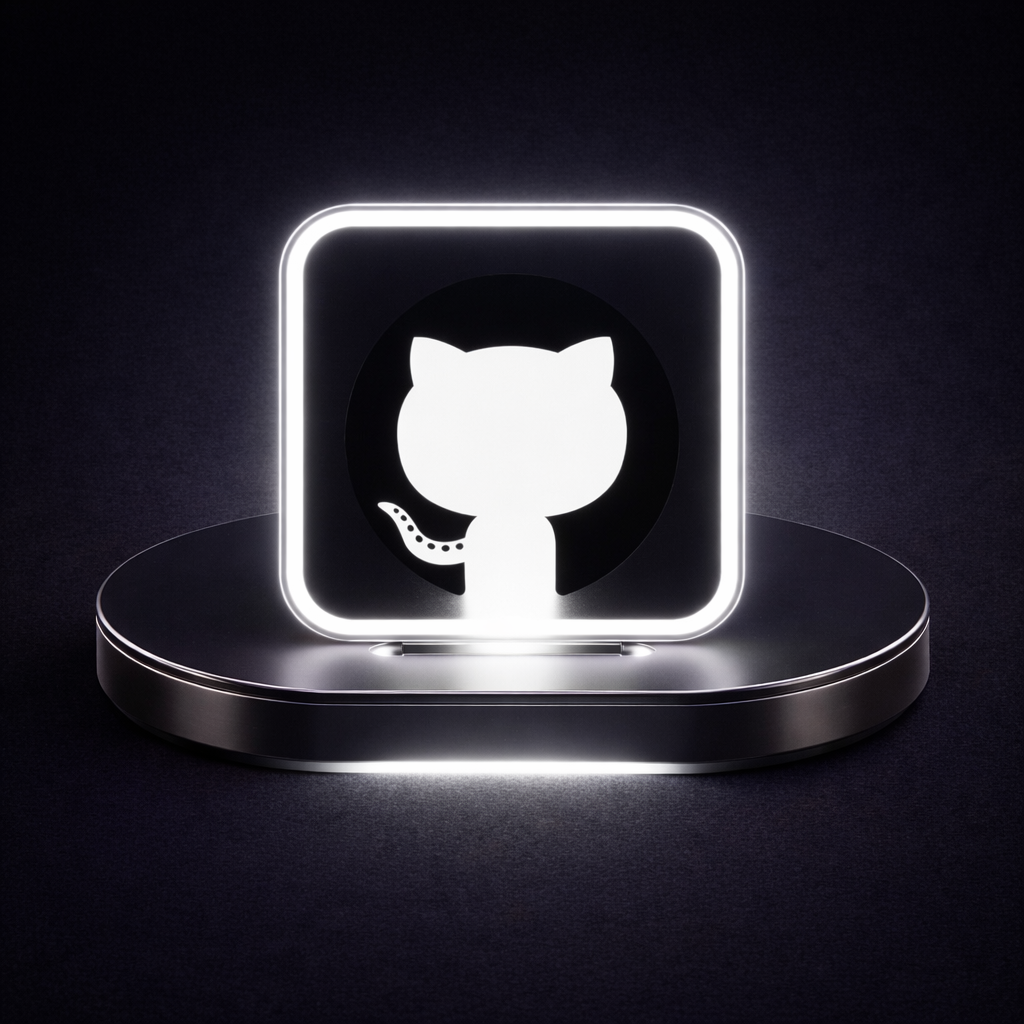
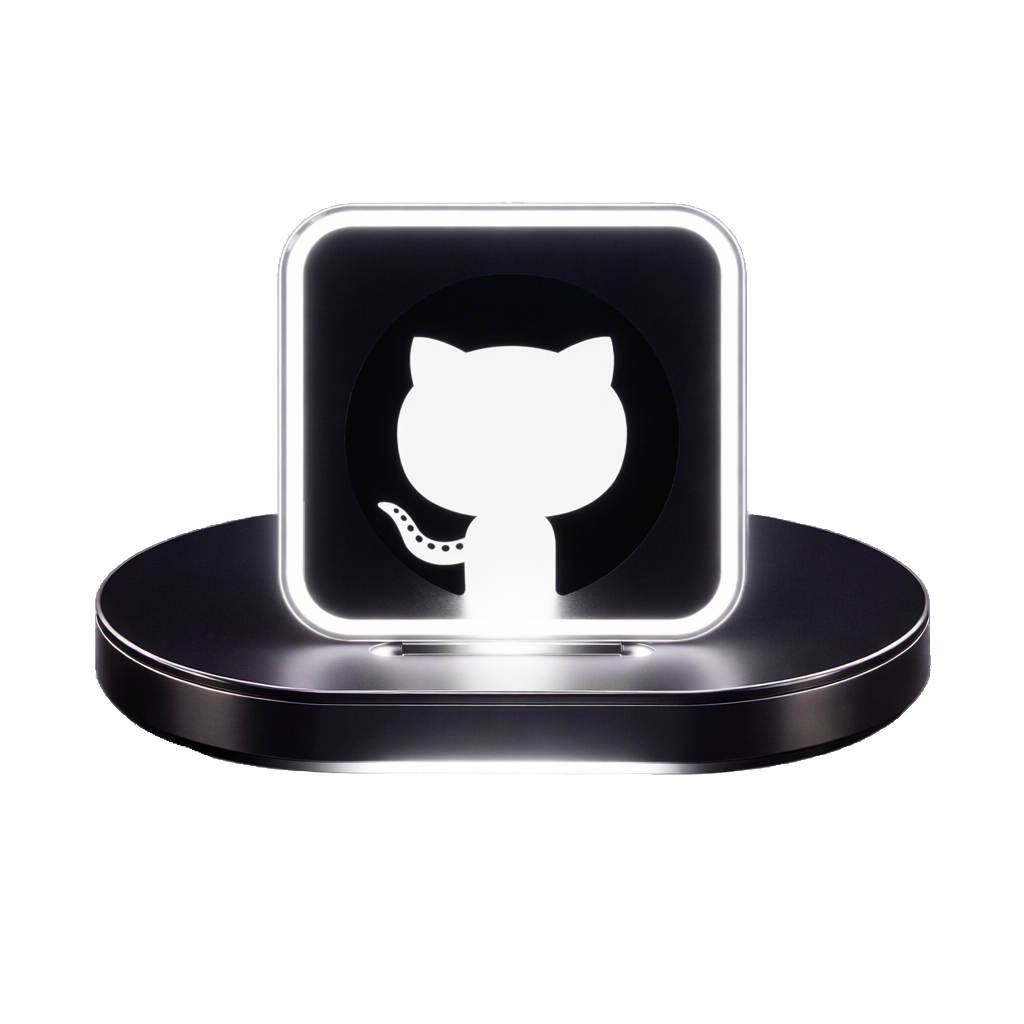
changes

diff --git a/components/tools-section.tsx b/components/tools-section.tsx
@@ -6,7 +6,7 @@ import MagicRings from "./magic-rings"
 
 const tools = [
   { abbr: "Ai",   name: "Adobe Illustrator", img: "/images/AI_Pic.png"              },
-  { abbr: "Ps",   name: "Adobe Photoshop",   img: "/images/PS_Pic.png"              },
+  { abbr: "Ps",   name: "Adobe Photoshop",   img: "/images/Photoshop_Pic.png"       },
   { abbr: "Fi",   name: "Figma",             img: "/images/Figma_Pic.png"           },
   { abbr: "Id",   name: "Adobe InDesign",    img: "/images/Id_Pic.png"              },
   { abbr: "Ae",   name: "After Effects",     img: "/images/Ae_Pic.png"              },
@@ -43,16 +43,16 @@ export function ToolsSection() {
     return () => { if (timerRef.current) clearInterval(timerRef.current) }
   }, [isInView, startTimer])
 
-  const goTo = (idx: number) => { setDirection(idx > current ? 1 : -1); setCurrent(idx); startTimer() }
+  const goTo   = (idx: number) => { setDirection(idx > current ? 1 : -1); setCurrent(idx); startTimer() }
   const goNext = () => { setDirection(1);  setCurrent(p => (p + 1) % tools.length); startTimer() }
   const goPrev = () => { setDirection(-1); setCurrent(p => (p - 1 + tools.length) % tools.length); startTimer() }
 
   const tool = tools[current]
 
   const imgVariants = {
-    enter:  (d: number) => ({ x: d * 60, opacity: 0, scale: 0.88, rotateY: d * 15 }),
-    center: { x: 0, opacity: 1, scale: 1, rotateY: 0 },
-    exit:   (d: number) => ({ x: d * -60, opacity: 0, scale: 0.88, rotateY: d * -15 }),
+    enter:  (d: number) => ({ x: d * 70, opacity: 0, scale: 0.85 }),
+    center: { x: 0, opacity: 1, scale: 1 },
+    exit:   (d: number) => ({ x: d * -70, opacity: 0, scale: 0.85 }),
   }
 
   return (
@@ -80,28 +80,26 @@ export function ToolsSection() {
           transition={{ delay: 0.25, duration: 0.7 }}
           className="flex flex-col items-center gap-8"
         >
-          {/* Image row */}
           <div className="flex items-center gap-10 w-full justify-center">
 
             {/* Prev */}
             <button onClick={goPrev} aria-label="Previous"
-              style={{ flexShrink: 0, width: 36, height: 36, borderRadius: "50%", display: "flex", alignItems: "center", justifyContent: "center", background: "rgba(140,145,247,0.08)", border: "1px solid rgba(140,145,247,0.2)", color: "#8C91F7", cursor: "pointer", zIndex: 2, position: "relative" }}
+              style={{ flexShrink: 0, width: 36, height: 36, borderRadius: "50%", display: "flex", alignItems: "center", justifyContent: "center", background: "rgba(140,145,247,0.08)", border: "1px solid rgba(140,145,247,0.2)", color: "#8C91F7", cursor: "pointer", position: "relative", zIndex: 2 }}
               onMouseEnter={e => (e.currentTarget.style.background = "rgba(140,145,247,0.18)")}
               onMouseLeave={e => (e.currentTarget.style.background = "rgba(140,145,247,0.08)")}
             >
               <svg width="15" height="15" viewBox="0 0 16 16" fill="none"><path d="M10 3L5 8L10 13" stroke="currentColor" strokeWidth="1.8" strokeLinecap="round" strokeLinejoin="round"/></svg>
             </button>
 
-            {/* ── The actual visual area ── */}
-            {/* overflow: visible so rings spill freely */}
-            <div style={{ position: "relative", width: 260, height: 260, flexShrink: 0 }}>
+            {/* Stage: rings bleed freely, image floats on top */}
+            <div style={{ position: "relative", width: 280, height: 280, flexShrink: 0 }}>
 
-              {/* MagicRings — 2× bigger, centred, free to bleed out */}
+              {/* MagicRings — oversized, centred, bleeds out freely */}
               <div style={{
                 position: "absolute",
                 top: "50%", left: "50%",
                 transform: "translate(-50%, -50%)",
-                width: 560, height: 560,
+                width: 580, height: 580,
                 pointerEvents: "none",
                 zIndex: 0,
               }}>
@@ -126,38 +124,41 @@ export function ToolsSection() {
                 />
               </div>
 
-              {/* Image — screen blend mode dissolves dark bg into rings */}
+              {/* Floating image — transparent bg, glows, bobs up and down */}
               <AnimatePresence initial={false} custom={direction} mode="popLayout">
-                <motion.img
+                <motion.div
                   key={tool.abbr}
-                  src={tool.img}
-                  alt={tool.name}
-                  draggable={false}
                   custom={direction}
                   variants={imgVariants}
                   initial="enter"
                   animate="center"
                   exit="exit"
                   transition={{ duration: 0.5, ease: [0.25, 0.46, 0.45, 0.94] }}
-                  style={{
-                    position:       "absolute",
-                    inset:          0,
-                    width:          "100%",
-                    height:         "100%",
-                    objectFit:      "contain",
-                    objectPosition: "center",
-                    mixBlendMode:   "screen",   // dark bg disappears, rings bleed through
-                    zIndex:         1,
-                    filter:         "drop-shadow(0 0 28px rgba(252,66,255,0.55)) drop-shadow(0 0 60px rgba(140,145,247,0.3))",
-                    userSelect:     "none",
-                  }}
-                />
+                  style={{ position: "absolute", inset: 0, zIndex: 1 }}
+                >
+                  {/* Continuous float bob */}
+                  <motion.img
+                    src={tool.img}
+                    alt={tool.name}
+                    draggable={false}
+                    animate={{ y: [0, -12, 0] }}
+                    transition={{ duration: 3.2, repeat: Infinity, ease: "easeInOut" }}
+                    style={{
+                      width:          "100%",
+                      height:         "100%",
+                      objectFit:      "contain",
+                      objectPosition: "center",
+                      filter:         "drop-shadow(0 0 18px rgba(252,66,255,0.7)) drop-shadow(0 6px 30px rgba(140,145,247,0.5))",
+                      userSelect:     "none",
+                    }}
+                  />
+                </motion.div>
               </AnimatePresence>
             </div>
 
             {/* Next */}
             <button onClick={goNext} aria-label="Next"
-              style={{ flexShrink: 0, width: 36, height: 36, borderRadius: "50%", display: "flex", alignItems: "center", justifyContent: "center", background: "rgba(140,145,247,0.08)", border: "1px solid rgba(140,145,247,0.2)", color: "#8C91F7", cursor: "pointer", zIndex: 2, position: "relative" }}
+              style={{ flexShrink: 0, width: 36, height: 36, borderRadius: "50%", display: "flex", alignItems: "center", justifyContent: "center", background: "rgba(140,145,247,0.08)", border: "1px solid rgba(140,145,247,0.2)", color: "#8C91F7", cursor: "pointer", position: "relative", zIndex: 2 }}
               onMouseEnter={e => (e.currentTarget.style.background = "rgba(140,145,247,0.18)")}
               onMouseLeave={e => (e.currentTarget.style.background = "rgba(140,145,247,0.08)")}
             >
